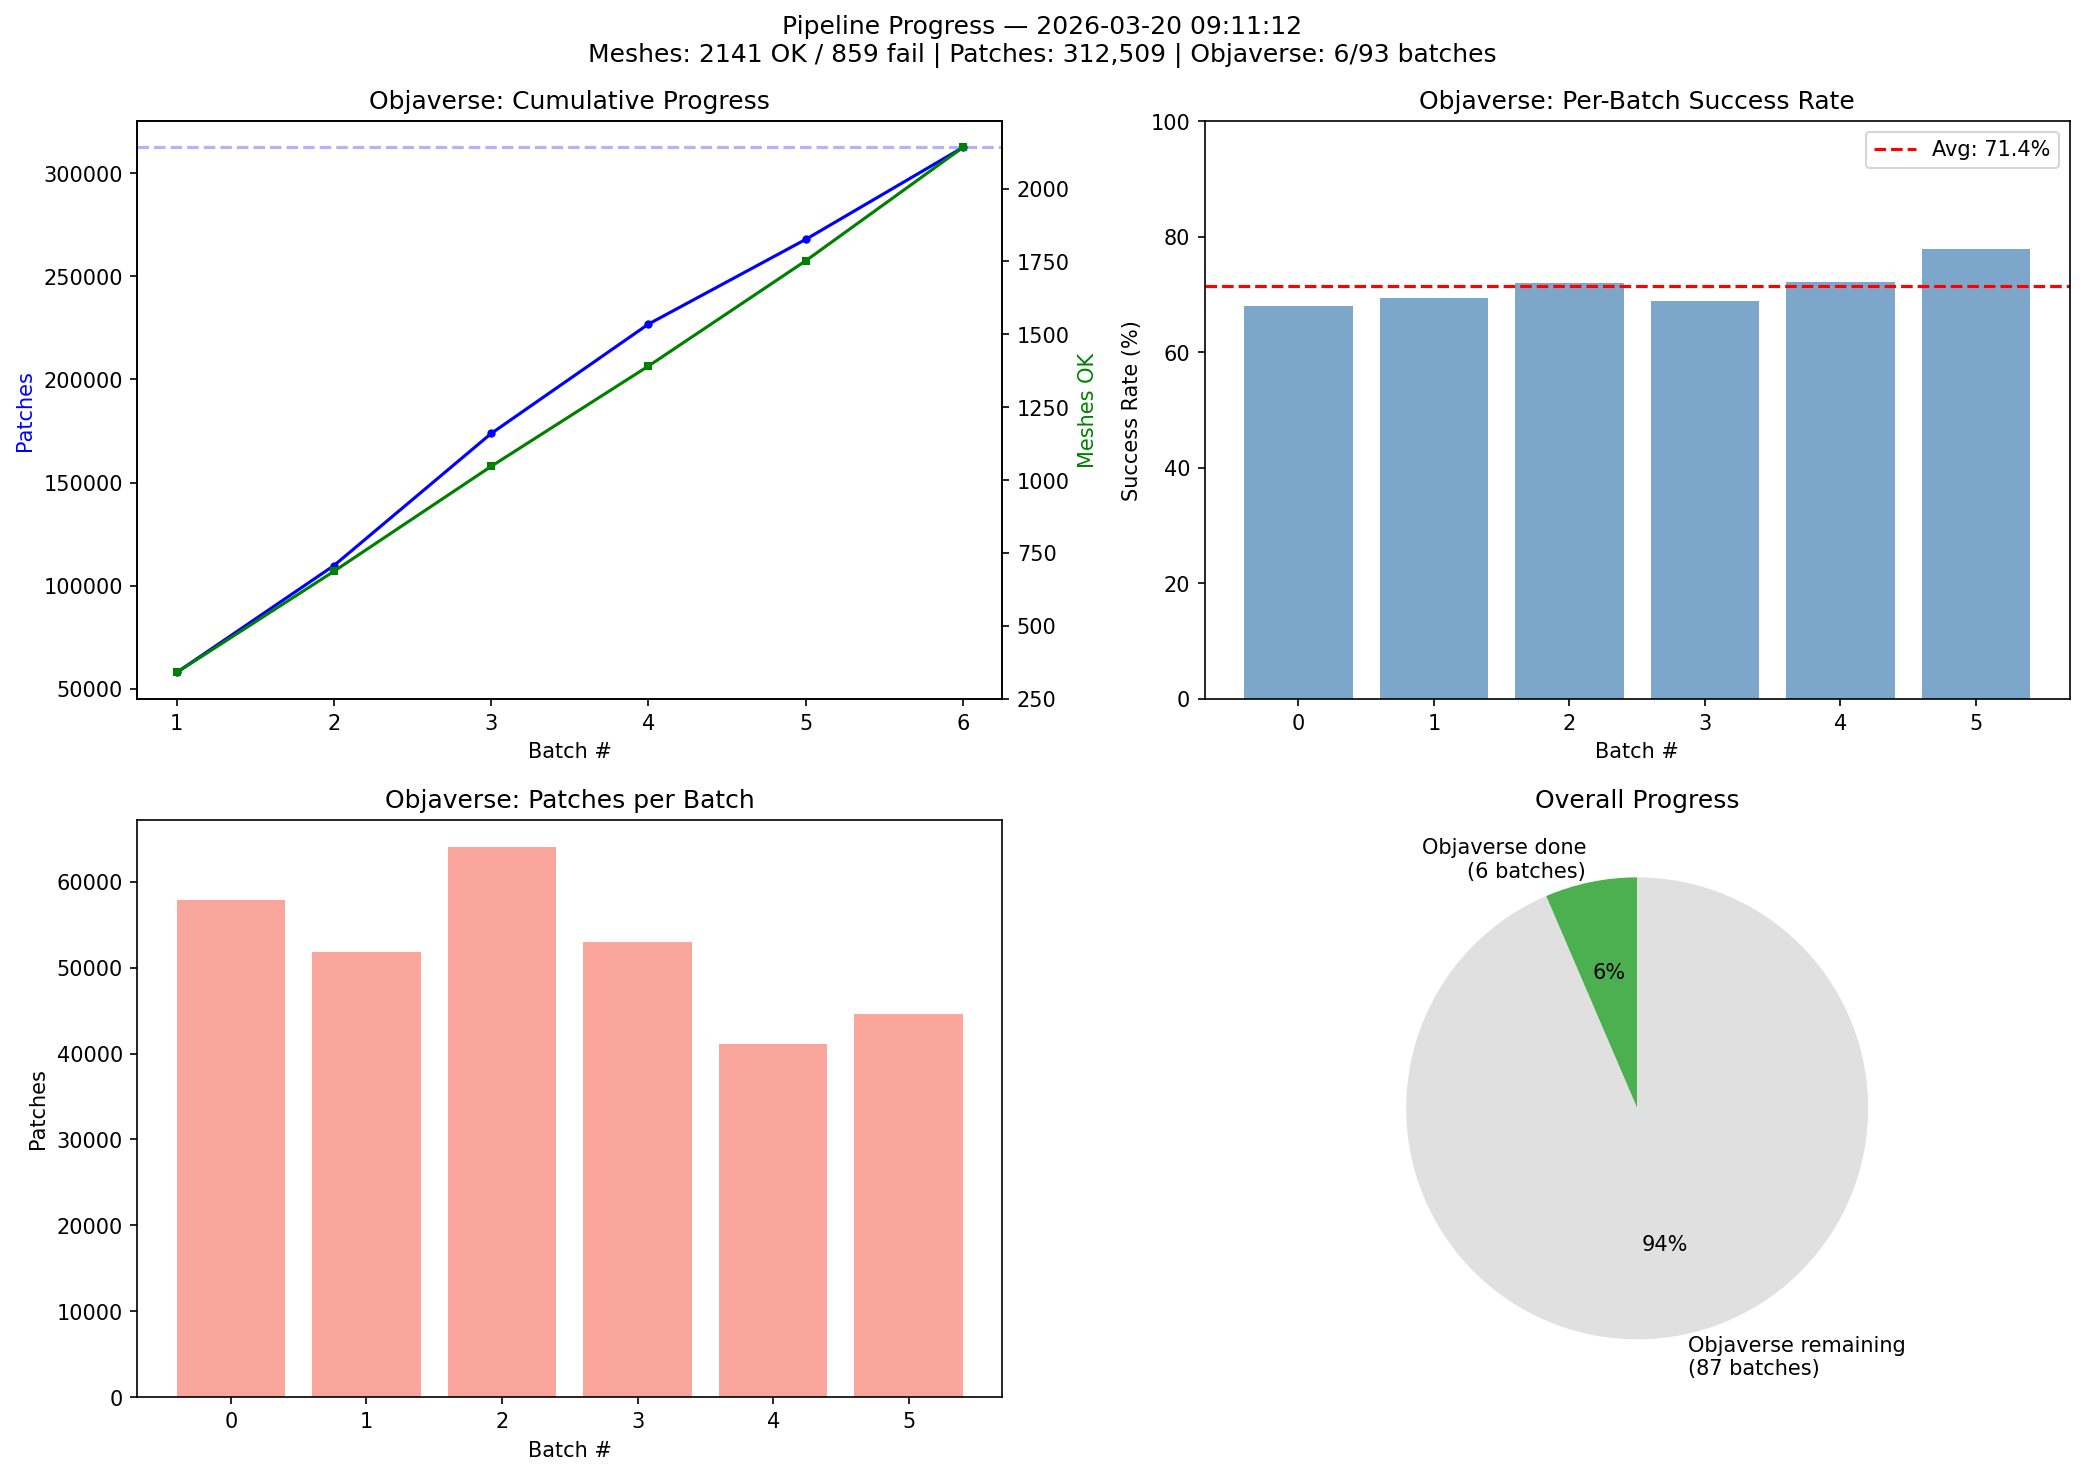
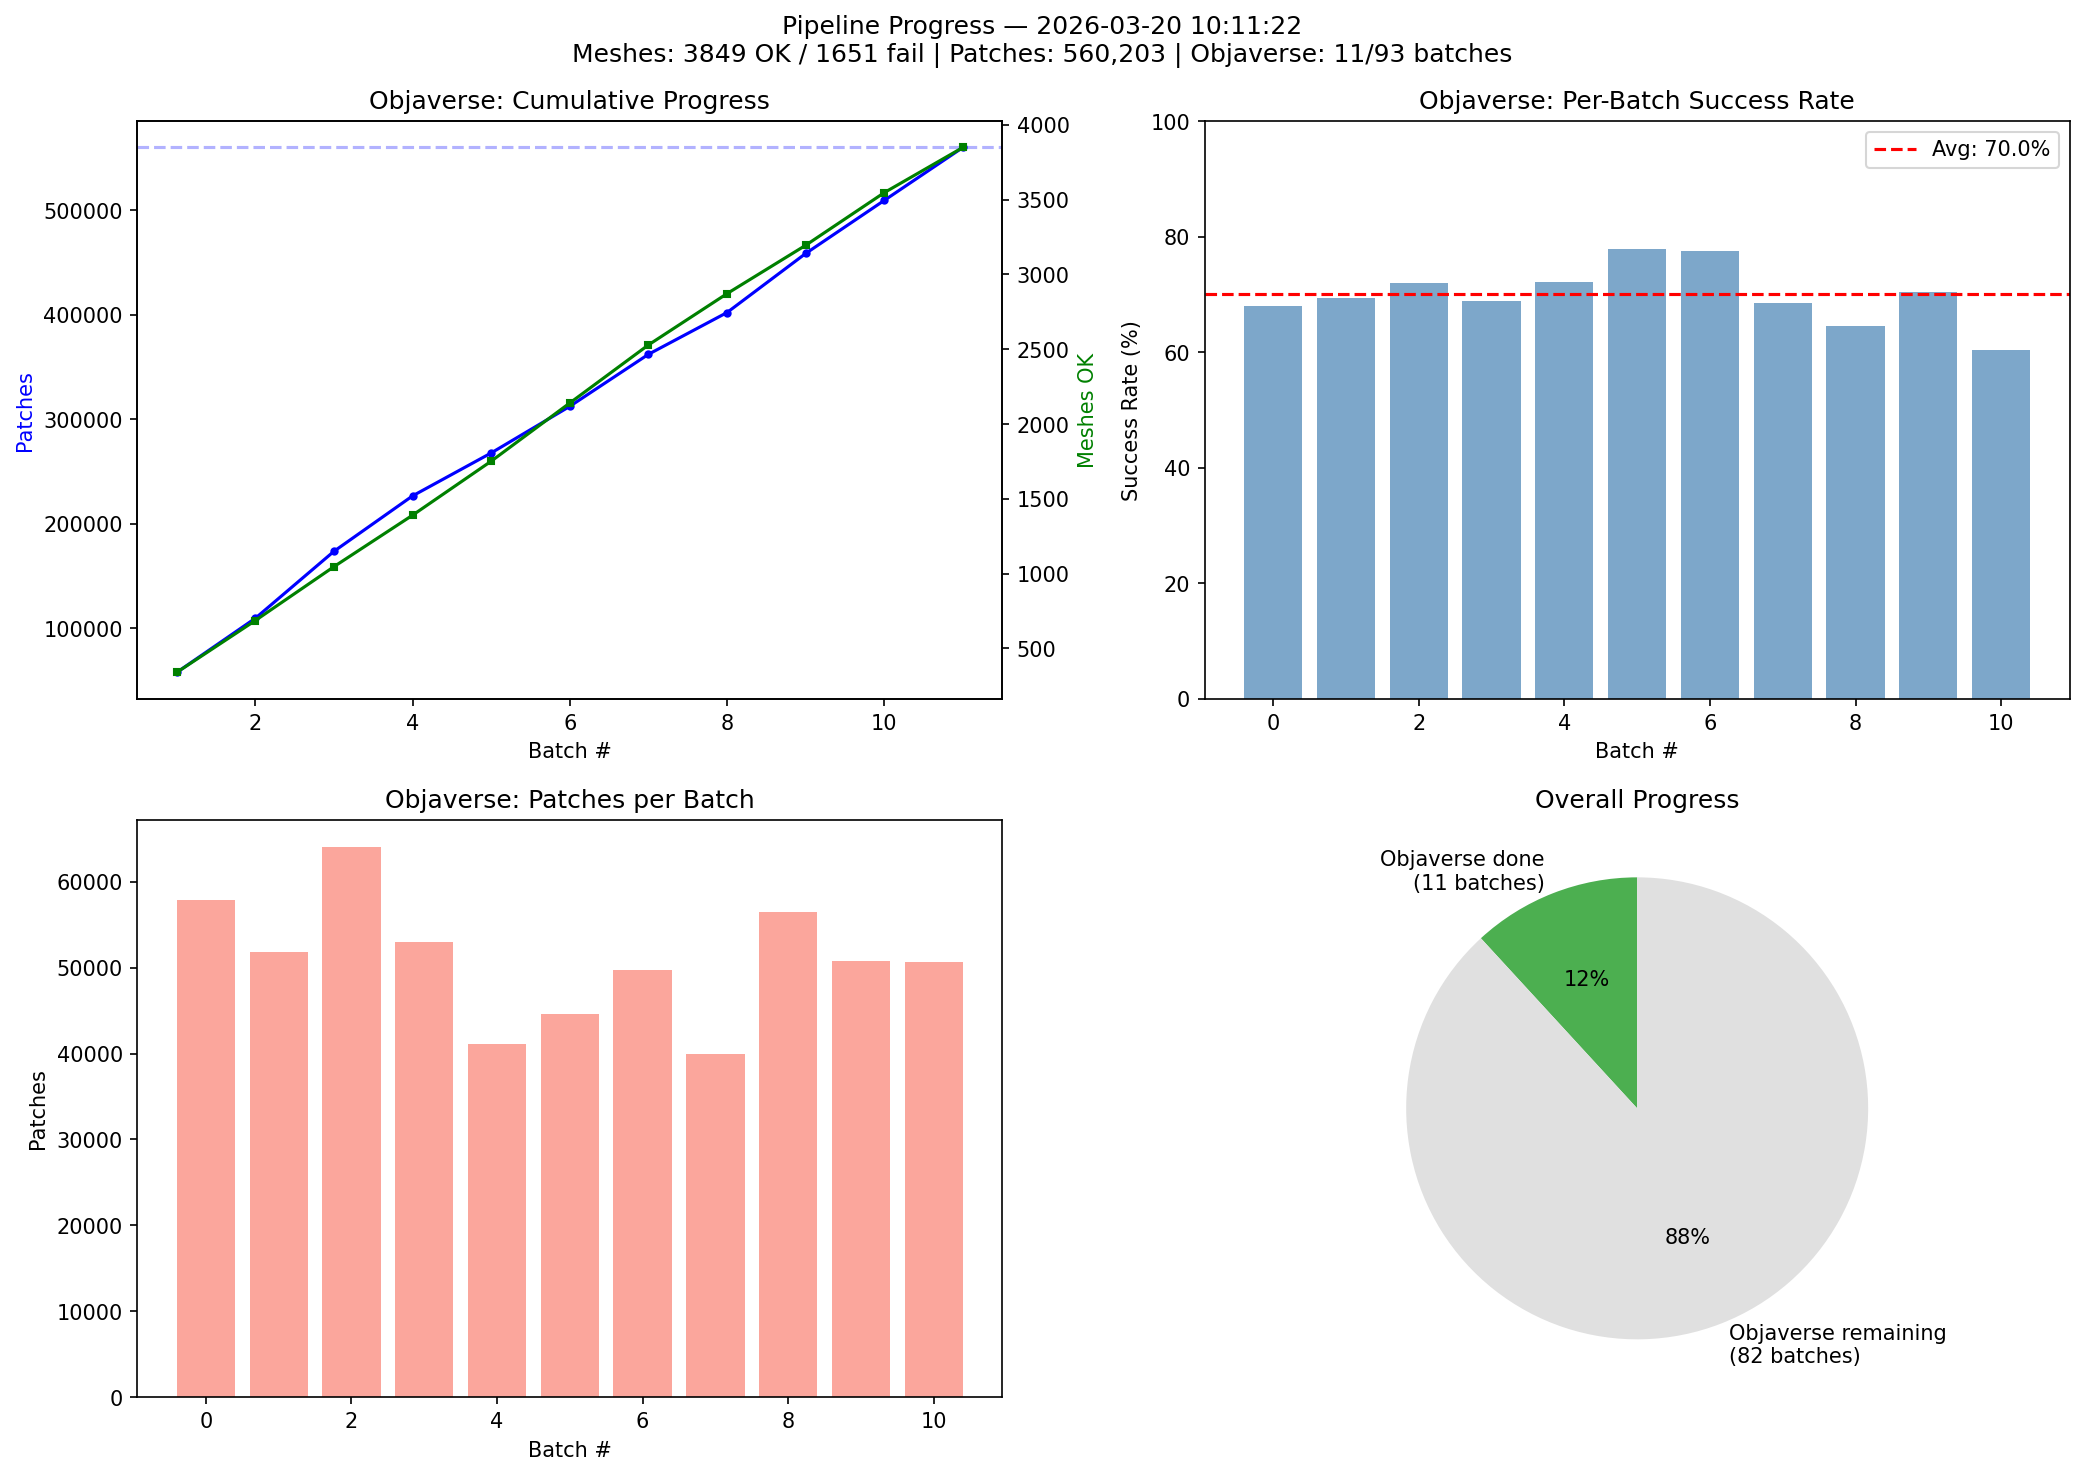
chore: refresh pipeline monitoring outputs
Updates the dataset pipeline progress report, summary stats, progress
chart, and latest sampled visualization from the current Objaverse run.

diff --git a/results/dataset-pipeline/REPORT.md b/results/dataset-pipeline/REPORT.md
@@ -1,17 +1,17 @@
 # Dataset Pipeline Progress Report
 
-**Generated:** 2026-03-20 09:11:12
+**Generated:** 2026-03-20 10:11:22
 
 ## Overall
-- Total meshes processed: 2141 OK / 859 fail
-- Total patches: 312,509
+- Total meshes processed: 3849 OK / 1651 fail
+- Total patches: 560,203
 
 ## Objaverse-LVIS (Phase 1)
-- Batches: 6 / 93 completed
-- Meshes: 2141 OK / 859 fail
-- Success rate: 71.4%
-- Patches: 312,509
-- Avg patches/mesh: 146.0
+- Batches: 11 / 93 completed
+- Meshes: 3849 OK / 1651 fail
+- Success rate: 70.0%
+- Patches: 560,203
+- Avg patches/mesh: 145.5
 
 ## ShapeNet (Phase 2)
 - Batches: 0 completed
@@ -21,5 +21,5 @@
 
 ## Disk Usage
 - Total: 80GB
-- Used: 24GB
-- Free: 55GB
+- Used: 44GB
+- Free: 35GB
